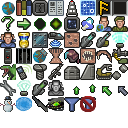
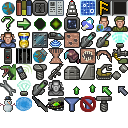
#809 Starts implementation of remote mining.

Changed region(s): [[0.75, 0.75, 0.875, 0.875]]

diff --git a/src/main/java/org/openRealmOfStars/player/tech/TechFactory.java b/src/main/java/org/openRealmOfStars/player/tech/TechFactory.java
@@ -370,7 +370,7 @@ public final class TechFactory {
    * Hull tech names for level 3
    */
   public static final String[] HULL_TECH_LEVEL3_NAMES = {"Corvette Mk1",
-      "Advanced colonization", "Cargo bay"}; //, "Remote miner Mk1"}
+      "Advanced colonization", "Cargo bay"};
   /**
    * Hull rare tech names for level 3.
    */
@@ -404,7 +404,6 @@ public final class TechFactory {
    */
   public static final String[] HULL_TECH_LEVEL7_NAMES = {"Battle cruiser Mk1",
       "Privateer Mk2", "Destroyer Mk2", "Fighter bay Mk2"};
-  //, "Remote miner Mk2" };
   /**
    * Hull rare tech names for level 7.
    */
@@ -425,7 +424,6 @@ public final class TechFactory {
    */
   public static final String[] HULL_TECH_LEVEL10_NAMES = {"Large freighter Mk2",
       "Corvette Mk3", "Destroyer Mk3", "Fighter bay Mk3"};
-  //, "Remote miner Mk3" };
   /**
    * Hull tech names for level 11
    */
@@ -452,7 +450,6 @@ public final class TechFactory {
    */
   public static final String[] HULL_TECH_LEVEL14_NAMES = {"Corvette Mk3",
       "Destroyer Mk3", "Fighter bay Mk4"};
-  //, "Remote miner Mk4" };
   /**
    * Hull tech names for level 15
    */
@@ -472,7 +469,7 @@ public final class TechFactory {
    * Hull tech names for level 18
    */
   public static final String[] HULL_TECH_LEVEL18_NAMES = {"Capital ship",
-      "Massive orbital Mk2"}; //, "Remote miner Mk5"};
+      "Massive orbital Mk2"};
   /**
    * Hull tech names for level 19
    */
@@ -754,7 +751,7 @@ public final class TechFactory {
    * Electronics tech names for level 3
    */
   public static final String[] ELECTRONICS_TECH_LEVEL3_NAMES = {"Scanner Mk2",
-      "Planetary scanner Mk2", "Espionage module Mk2" };
+      "Planetary scanner Mk2", "Espionage module Mk2", "Robo miner Mk1"};
   /**
    * Rare electronics tech names for level 3.
    */
@@ -781,7 +778,7 @@ public final class TechFactory {
    * Electronics tech names for level 7
    */
   public static final String[] ELECTRONICS_TECH_LEVEL7_NAMES = {"Scanner Mk4",
-      "Espionage module Mk4"};
+      "Espionage module Mk4", "Robo miner Mk2"};
   /**
    * Electronics rare tech names for level 7
    */
@@ -802,7 +799,8 @@ public final class TechFactory {
    * Electronics tech names for level 10
    */
   public static final String[] ELECTRONICS_TECH_LEVEL10_NAMES = {
-      "Cloaking device Mk5", "Planetary scanner Mk5", "Espionage module Mk5" };
+      "Cloaking device Mk5", "Planetary scanner Mk5", "Espionage module Mk5",
+      "Robo miner Mk3"};
   /**
    * Electronics tech names for level 11
    */
@@ -822,7 +820,7 @@ public final class TechFactory {
    * Electronics tech names for level 14
    */
   public static final String[] ELECTRONICS_TECH_LEVEL14_NAMES = {
-     "Planetary scanner Mk7", "Cloaking device Mk7" };
+     "Planetary scanner Mk7", "Cloaking device Mk7", "Robo miner Mk4" };
   /**
    * Electronics tech names for level 15
    */
@@ -842,7 +840,7 @@ public final class TechFactory {
    * Electronics tech names for level 18
    */
   public static final String[] ELECTRONICS_TECH_LEVEL18_NAMES = {
-     "Planetary scanner Mk9", "Cloaking device Mk9" };
+     "Planetary scanner Mk9", "Cloaking device Mk9", "Robo miner Mk5" };
   /**
    * Electronics tech names for level 19
    */
@@ -1751,6 +1749,8 @@ public final class TechFactory {
           tech.setIcon(Icons.getIconByName(Icons.ICON_ANTENNA));
         } else if (techName.startsWith("Cloaking device")) {
           tech.setIcon(Icons.getIconByName(Icons.ICON_CLOACKING_DEVICE));
+        } else if (techName.startsWith("Robo miner")) {
+          tech.setIcon(Icons.getIconByName(Icons.ICON_DRILL));
         } else if (techName.startsWith("Espionage module Mk")) {
           tech.setIcon(Icons.getIconByName(Icons.ICON_SPY_GOGGLES));
         } else {

diff --git a/src/main/java/org/openRealmOfStars/player/ship/Ship.java b/src/main/java/org/openRealmOfStars/player/ship/Ship.java
@@ -2318,6 +2318,27 @@ private int increaseHitChanceByComponent() {
   }
 
   /**
+   * Get mining bonus for the ship.
+   * Ship will mine this amount of metal per star year.
+   * @return Mining bonus
+   */
+  public int getMiningBonus() {
+    int value = 0;
+    for (int i = 0; i < components.size(); i++) {
+      ShipComponent comp = components.get(i);
+      if (hullPoints[i] > 0
+          && comp.getType() == ShipComponentType.REMOTE_MINER
+          && hasComponentEnergy(i)) {
+        value = value + comp.getDamage();
+      }
+    }
+    if (value > 0 && getHull().getRace().isLithovorian()) {
+      value = value + 1;
+    }
+    return value;
+  }
+
+  /**
    * Calculate Trader credits for single ship. Does not
    * have any kind of sanity check. Only two coordinates
    * and calculates distance between those two.

diff --git a/src/main/java/org/openRealmOfStars/player/ship/ShipComponentType.java b/src/main/java/org/openRealmOfStars/player/ship/ShipComponentType.java
@@ -211,7 +211,11 @@ public enum ShipComponentType {
   /**
    * Cargo bay adds cargo space and hull point(s).
    */
-  CARGO_BAY;
+  CARGO_BAY,
+  /**
+   * Remote miner for mine metal from uncolonized planets.
+   */
+  REMOTE_MINER;
 
 
 
@@ -326,6 +330,8 @@ public enum ShipComponentType {
       return "Plasma spit";
     case CARGO_BAY:
       return "Cargo bay";
+    case REMOTE_MINER:
+      return "Remote miner";
     default:
       return "Error - Unknown";
     }
@@ -426,6 +432,8 @@ public enum ShipComponentType {
     case CARGO_BAY:
       // TODO: Change icon
       return Icons.ICON_ARMOR;
+    case REMOTE_MINER:
+      return Icons.ICON_DRILL;
     default:
       return Icons.ICON_CIRCUIT_BOARD;
     }

diff --git a/src/main/java/org/openRealmOfStars/player/fleet/Fleet.java b/src/main/java/org/openRealmOfStars/player/fleet/Fleet.java
@@ -1190,6 +1190,22 @@ public class Fleet {
   }
 
   /**
+   * Get total mining bonus for fleet.
+   * This should be used when orbiting uncolonized planet.
+   * @return Number metal per year to mine.
+   */
+  public int getMiningBonus() {
+    int result = 0;
+    for (Ship ship : ships) {
+      result = result + ship.getMiningBonus();
+    }
+    if (commander != null
+        && commander.hasPerk(Perk.MINER)) {
+      result = result + 1;
+    }
+    return result;
+  }
+  /**
    * Calculate trade worth between fleet coordinate and
    * target coordinate. This does not check that coordinates contain
    * planets or diplomacy of realms.

diff --git a/src/main/java/org/openRealmOfStars/gui/icons/Icons.java b/src/main/java/org/openRealmOfStars/gui/icons/Icons.java
@@ -522,6 +522,11 @@ public final class Icons {
   public static final String ICON_FILTER_OFF = "IconFilterOff";
 
   /**
+   * Icon Drill
+   */
+  public static final String ICON_DRILL = "IconDrill";
+
+  /**
    * List of Icon
    */
   private static ArrayList<Icon16x16> listOfIcons;
@@ -888,6 +893,8 @@ public final class Icons {
     icon = new Icon16x16(image, 4, 6, ICON_FILTER_ON);
     addIcon(icon);
     icon = new Icon16x16(image, 5, 6, ICON_FILTER_OFF);
+    addIcon(icon);
+    icon = new Icon16x16(image, 6, 6, ICON_DRILL);
     addIcon(icon);
   }
 

diff --git a/src/main/java/org/openRealmOfStars/player/leader/Perk.java b/src/main/java/org/openRealmOfStars/player/leader/Perk.java
@@ -50,8 +50,10 @@ public enum Perk {
   /**
    * Governor perk for mining.
    * +1 Metal production when leader is governor
+   * +1 Metal remote mining when leader is commander
    */
-  MINER(4, "Miner", "+1 Metal production when leader is governor"),
+  MINER(4, "Miner", "+1 Metal production when leader is governor."
+      + " +1 Metal remote mining when leader is commander"),
   /**
    * Governor perk for industrial.
    * +1 Production production when leader is governor

diff --git a/src/main/java/org/openRealmOfStars/player/ship/ShipComponent.java b/src/main/java/org/openRealmOfStars/player/ship/ShipComponent.java
@@ -976,6 +976,16 @@ public class ShipComponent {
       sb.append("\n");
       break;
     }
+    case REMOTE_MINER: {
+      sb.append("Remote miner: +");
+      sb.append(getDamage());
+      sb.append(" metal per star year");
+      sb.append("\n\n");
+      sb.append("Remote miner orbiting uncolonized planet\n"
+          + "will miner metal to surface of that planet.");
+      sb.append("\n");
+      break;
+    }
     default:
       // Do nothing
     }
